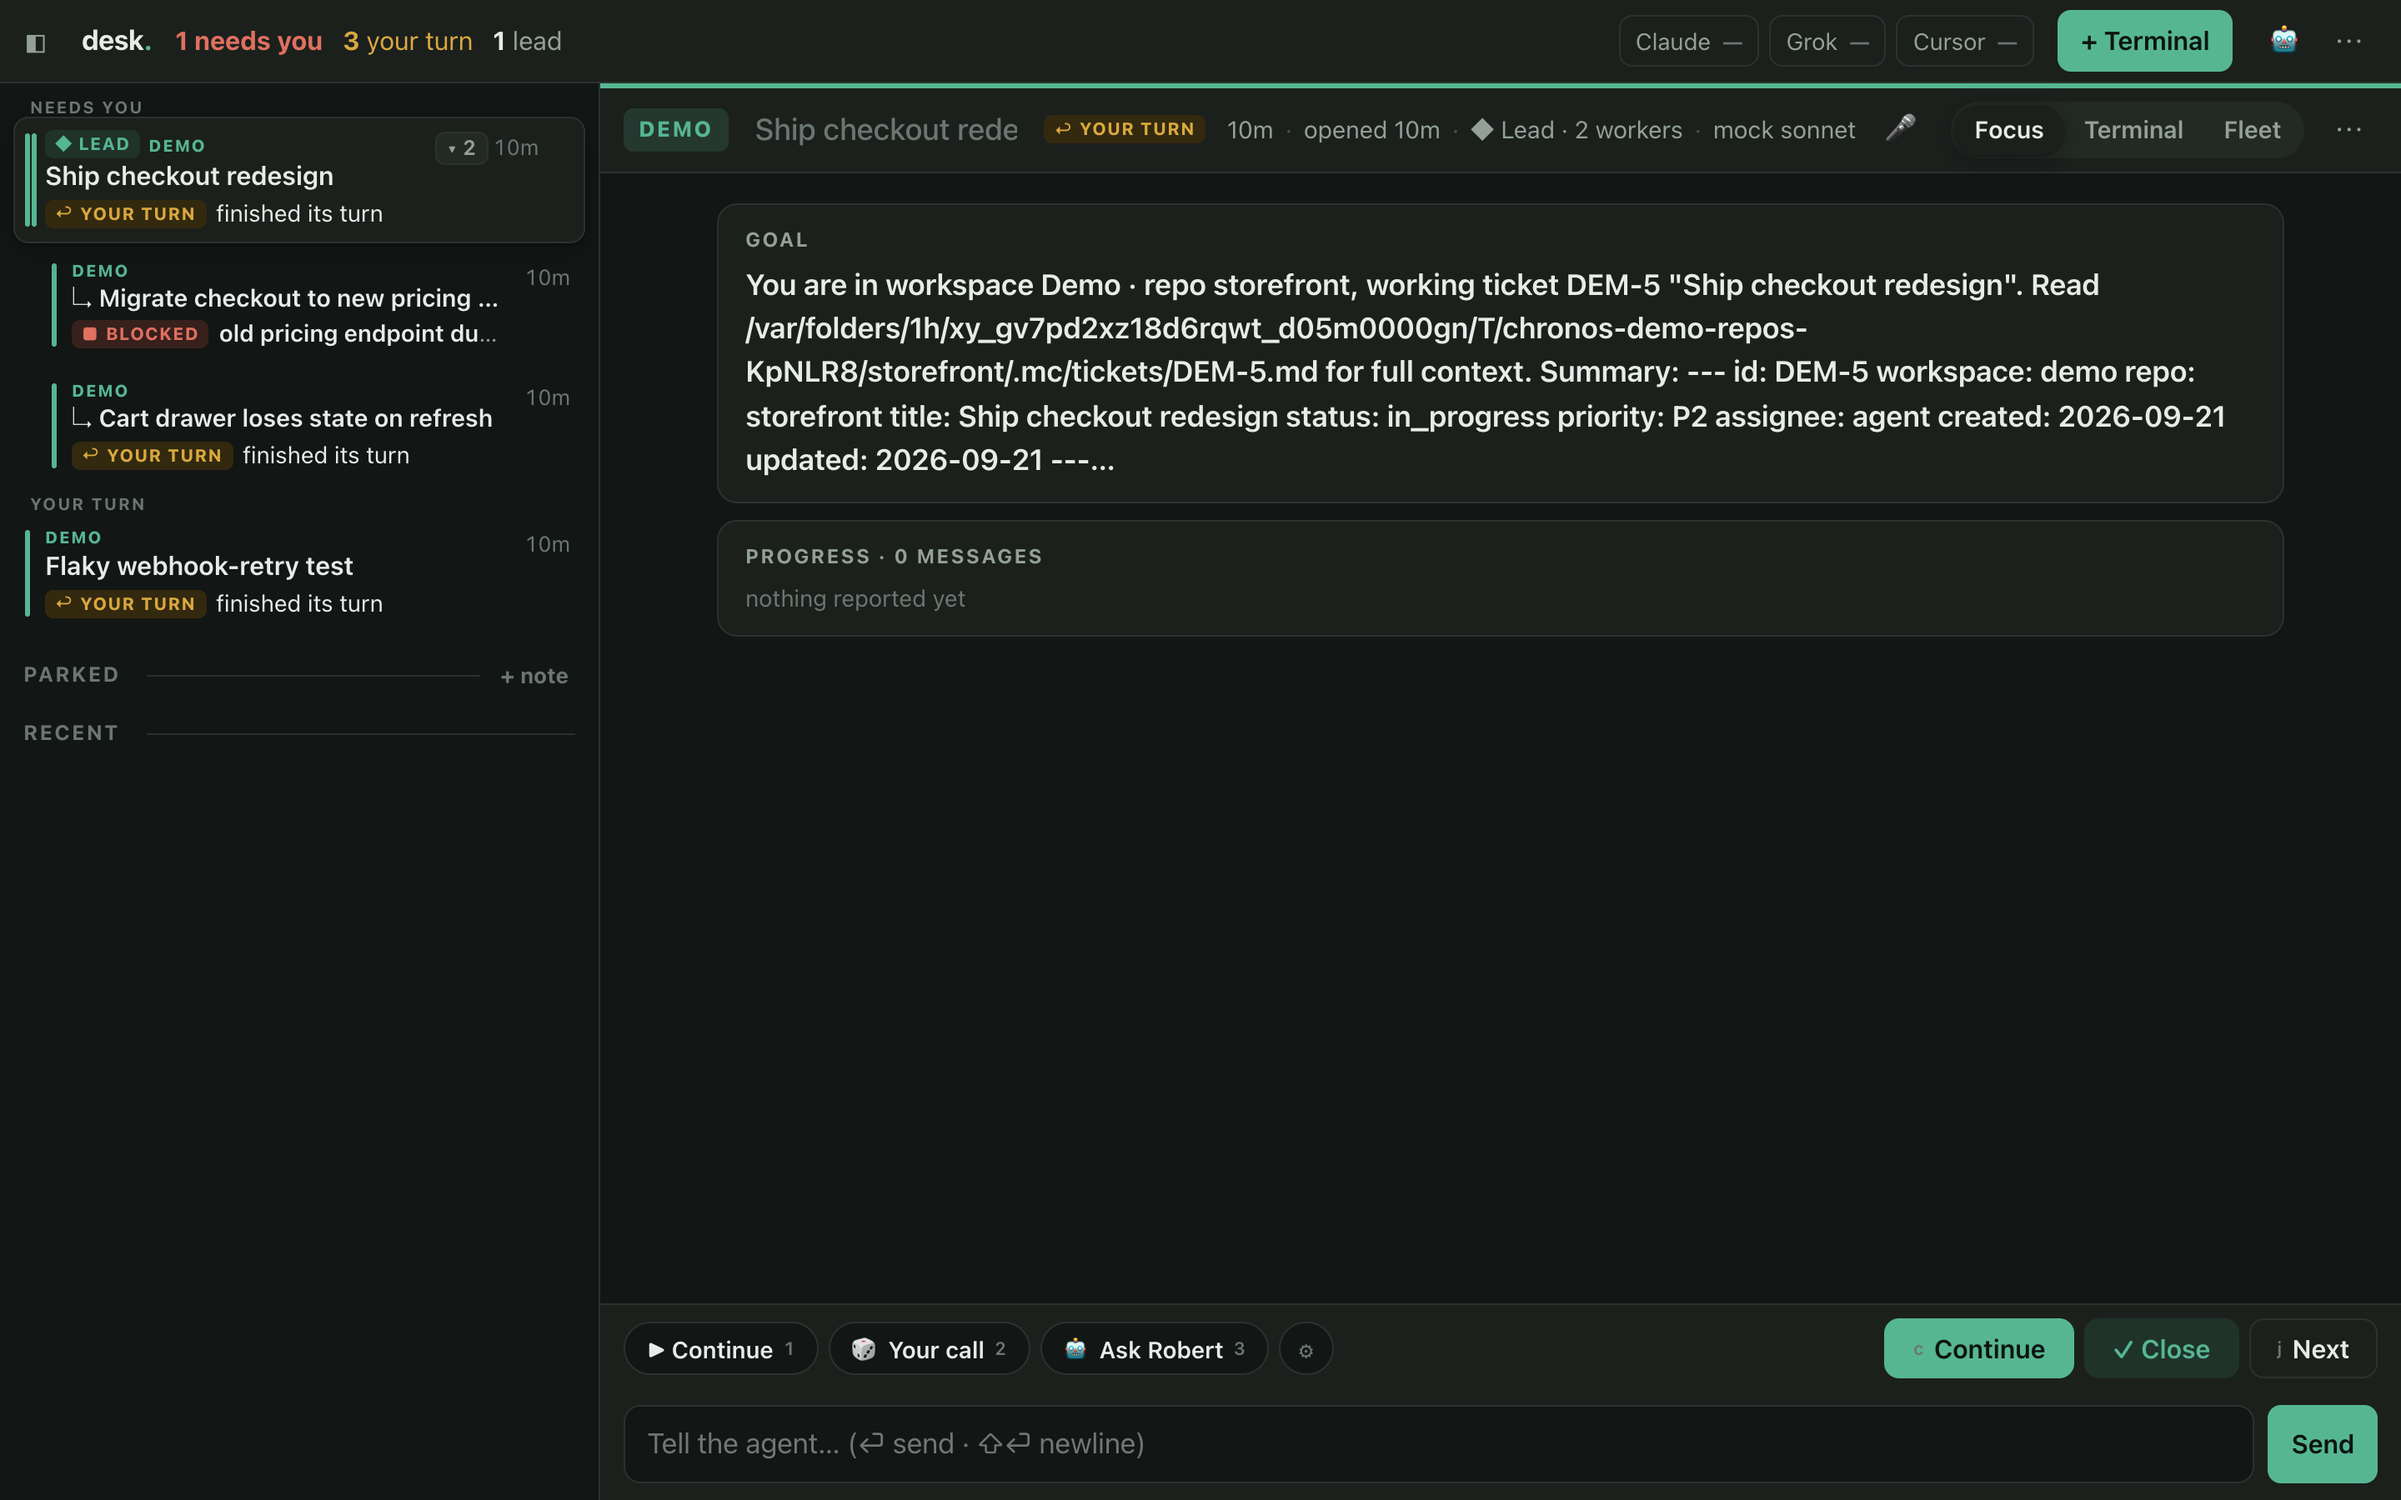
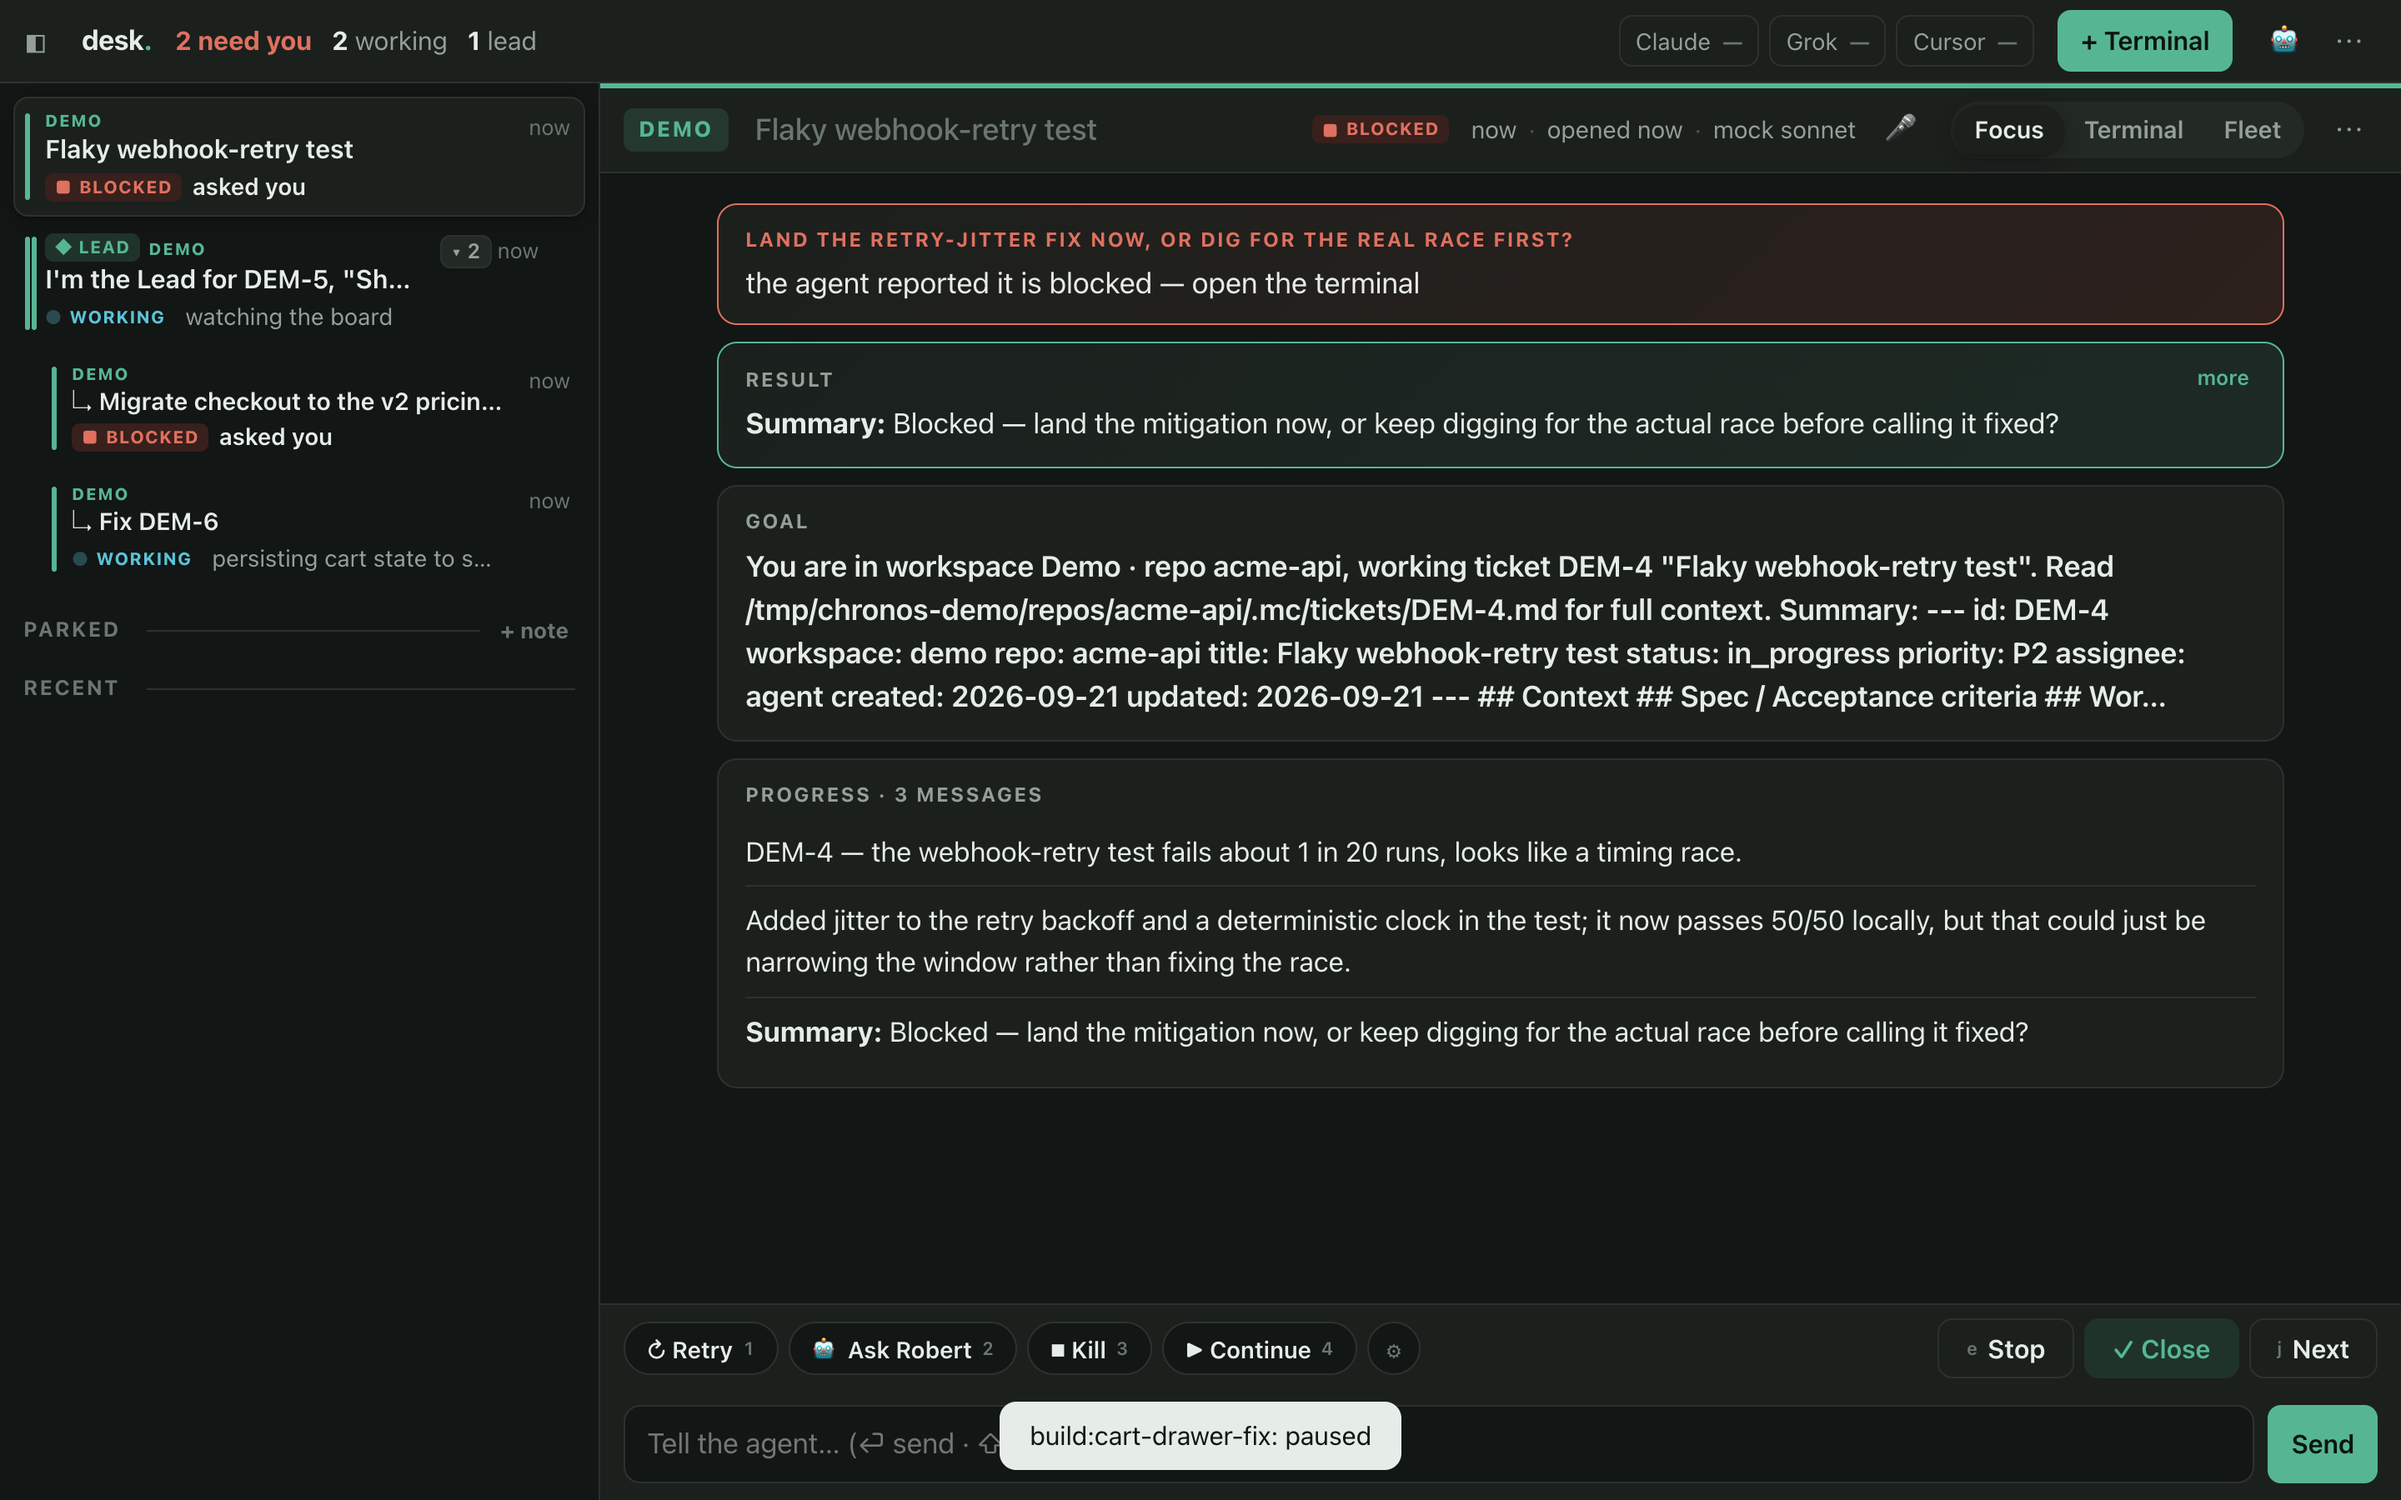
site/assets: rework round 2 — clean demo path, real Progress panel, phone ask
Lead review round 2: (1) desk-hero's GOAL panel printed a machine-specific
/var/folders/.../T/chronos-demo-repos-<hash>/ path; (2) the Focus/Progress
panel was empty ("0 messages, nothing reported yet") even with sessions open;
(3) phone.png's NEEDS YOU / WORKING sections were both empty because the
blocked worker was nested under a live Lead (which is correct product
behavior — a Lead's worker wakes the Lead, not the phone — so nothing there
was ever going to surface).

- Demo repos/config now live at a fixed, clean path (/tmp/chronos-demo/…,
  overridable) instead of a random-hash tmp dir — same throwaway/disposable
  guarantee, just not machine-specific-looking where it's visible (a ticket's
  "Read <path>/…" instruction). Never the operator's real $HOME.
- The Desk's Progress panel reads each backend's own on-disk transcript file,
  not the raw terminal output (src/focus.ts) — "mock" falls through to the
  claude-shaped adapter, so the seed script now writes a small JSONL file per
  session in that shape ("Understanding:"/"Summary:"-tagged text) alongside
  opening it. Real activity now renders instead of an empty panel.
- The independent worker (webhook-retry, no live Lead) is now the one that's
  blocked-with-an-ask, since it's the session type that actually surfaces on
  the phone's top-level Needs-you list; the pricing worker stays blocked
  under the Lead for the Desk wall's nested view. Dropped redundant custom
[…]

diff --git a/site/assets/README.md b/site/assets/README.md
@@ -28,9 +28,17 @@ its own question), one independent worker, and one finished/killed session for t
 
 Those sessions never spawn a real agent CLI or touch real credentials: `mock.ts` now also implements
 `interactiveArgs()`, a harmless `node -e` script that prints a short plausible transcript once the
-ticket brief is typed in (the same way a real agent's first turn would be), then idles. The actual
-state each screenshot shows (working / blocked / done) comes from `mc state`-equivalent API calls and
-an ask the seed script makes afterward, not from anything that script prints.
+ticket brief is typed in (the same way a real agent's first turn would be), then idles — that's what
+keeps the terminal itself looking alive. The Desk's "Progress" panel is separate: it reads each
+backend's own on-disk transcript file, not the raw terminal output (`src/focus.ts`), so the seed
+script also writes a small JSONL file in the shape Focus expects (`"Understanding:"` / `"Summary:"`
+tagged text, the same convention a real agent's replies follow) for each session. The state each
+screenshot shows (working / blocked / done) comes from `mc state`-equivalent API calls and an ask the
+seed script makes, and both repos and the demo config dir live at a **fixed, clean path**
+(`/tmp/chronos-demo/…`, overridable via `CHRONOS_DEMO_REPOS_DIR`/`CHRONOS_DEMO_CONFIG_DIR`) rather
+than a random per-run tmp directory — a ticket's "Read `<path>`/…" instruction embeds that path
+verbatim, and a Desk screenshot shows it, so it needs to read clean rather than like a machine-specific
+hash. It's still never the operator's real `$HOME` — that would leak the real username.
 
 A Lead's workers are only linked to it (`lead_id`) when the caller presents that Lead's own
 credential (`x-mc-lead`) — nothing else can claim a worker for a Lead it doesn't own. That credential
